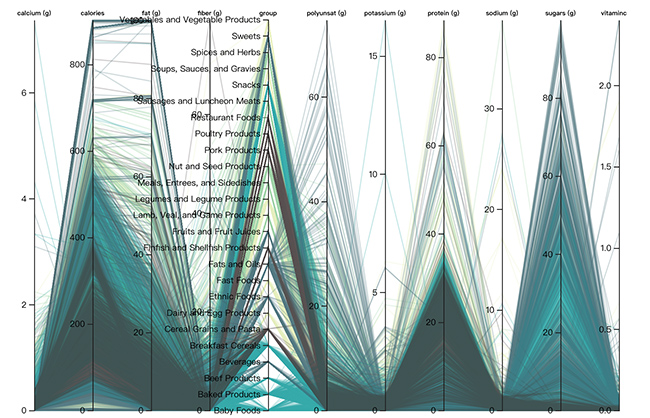
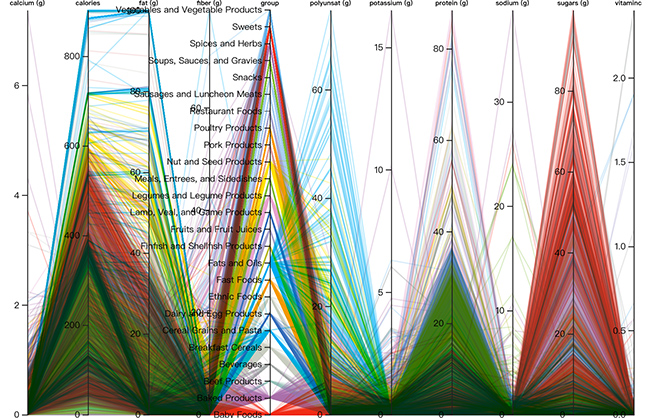
new parcoords color

diff --git a/vizart-path.standalone.js b/vizart-path.standalone.js
@@ -5,7 +5,7 @@ document.write('<script src="http://' + (location.host || 'localhost').split(':'
 	(factory((global.VizArtPath = {})));
 }(this, (function (exports) { 'use strict';
 
-var version = "0.6.0";
+var version = "0.6.1";
 
 var colors = function (specifier) {
   var n = specifier.length / 6 | 0,
@@ -20051,6 +20051,31 @@ var nodeIsDate = nodeUtil$1 && nodeUtil$1.isDate;
  */
 var isDate = nodeIsDate ? baseUnary$1(nodeIsDate) : baseIsDate;
 
+/**
+ * Checks if `value` is classified as an `Array` object.
+ *
+ * @static
+ * @memberOf _
+ * @since 0.1.0
+ * @category Lang
+ * @param {*} value The value to check.
+ * @returns {boolean} Returns `true` if `value` is an array, else `false`.
+ * @example
+ *
+ * _.isArray([1, 2, 3]);
+ * // => true
+ *
+ * _.isArray(document.body.children);
+ * // => false
+ *
+ * _.isArray('abc');
+ * // => false
+ *
+ * _.isArray(_.noop);
+ * // => false
+ */
+var isArray$1 = Array.isArray;
+
 var ascending$3 = function (a, b) {
   return a < b ? -1 : a > b ? 1 : a >= b ? 0 : NaN;
 };
@@ -25131,6 +25156,48 @@ var _functor = function _functor(v) {
     };
 };
 
+/**
+ * Checks if `value` is `null`.
+ *
+ * @static
+ * @memberOf _
+ * @since 0.1.0
+ * @category Lang
+ * @param {*} value The value to check.
+ * @returns {boolean} Returns `true` if `value` is `null`, else `false`.
+ * @example
+ *
+ * _.isNull(null);
+ * // => true
+ *
+ * _.isNull(void 0);
+ * // => false
+ */
+function isNull$1(value) {
+  return value === null;
+}
+
+/**
+ * Checks if `value` is `undefined`.
+ *
+ * @static
+ * @since 0.1.0
+ * @memberOf _
+ * @category Lang
+ * @param {*} value The value to check.
+ * @returns {boolean} Returns `true` if `value` is `undefined`, else `false`.
+ * @example
+ *
+ * _.isUndefined(void 0);
+ * // => true
+ *
+ * _.isUndefined(null);
+ * // => false
+ */
+function isUndefined$1(value) {
+  return value === undefined;
+}
+
 var _this = undefined;
 
 //============================================================================================
@@ -25162,7 +25229,8 @@ var ParCoords = function ParCoords(config) {
         hideAxis: [],
         flipAxes: [],
         animationTime: 1100, // How long it takes to flip the axis when you double click
-        rotateLabels: false
+        rotateLabels: false,
+        evenScale: null
     };
 
     extend$1(__, config);
@@ -25349,7 +25417,13 @@ var ParCoords = function ParCoords(config) {
                     });
                     _extent = temp;
                 }
-                return linear$4().domain(_extent).range(getRange());
+
+                if (!isNull$1(__.evenScale) && !isUndefined$1(__.evenScale) && isArray$1(__.evenScale) && __.evenScale.length === 2) {
+
+                    return linear$4().domain(__.evenScale).range(getRange());
+                } else {
+                    return linear$4().domain(_extent).range(getRange());
+                }
             },
             "string": function string(k) {
                 var counts = {},
@@ -27450,23 +27524,24 @@ var DefaultOptions = {
         colorDimension: null,
         renderingMode: 'queue',
         dimensions: null,
-        autoSortDimensions: 'asc'
+        autoSortDimensions: 'asc',
+        evenScale: null
     }
 };
 
-var ParallelCoordinate = function (_AbstractChart) {
-    inherits(ParallelCoordinate, _AbstractChart);
+var ParallelCoordinates = function (_AbstractChart) {
+    inherits(ParallelCoordinates, _AbstractChart);
 
-    function ParallelCoordinate(canvasId, _userOptions) {
-        classCallCheck$1(this, ParallelCoordinate);
+    function ParallelCoordinates(canvasId, _userOptions) {
+        classCallCheck$1(this, ParallelCoordinates);
 
-        var _this = possibleConstructorReturn(this, (ParallelCoordinate.__proto__ || Object.getPrototypeOf(ParallelCoordinate)).call(this, canvasId, _userOptions));
+        var _this = possibleConstructorReturn(this, (ParallelCoordinates.__proto__ || Object.getPrototypeOf(ParallelCoordinates)).call(this, canvasId, _userOptions));
 
         _this.parcoords;
         return _this;
     }
 
-    createClass$1(ParallelCoordinate, [{
+    createClass$1(ParallelCoordinates, [{
         key: 'render',
         value: function render(_data) {
             this.data(_data);
@@ -27482,9 +27557,9 @@ var ParallelCoordinate = function (_AbstractChart) {
         value: function update() {
             var _this2 = this;
 
-            get(ParallelCoordinate.prototype.__proto__ || Object.getPrototypeOf(ParallelCoordinate.prototype), 'update', this).call(this);
+            get(ParallelCoordinates.prototype.__proto__ || Object.getPrototypeOf(ParallelCoordinates.prototype), 'update', this).call(this);
 
-            this.parcoords = ParCoords()(this._containerId).data(this._data).hideAxis(this._options.plots.hiddenAxis).alpha(this._options.plots.alpha).composite(this._options.plots.composite).margin(this._options.chart.margin).mode(this._options.plots.renderingMode).shadows();
+            this.parcoords = ParCoords()(this._containerId).data(this._data).hideAxis(this._options.plots.hiddenAxis).alpha(this._options.plots.alpha).composite(this._options.plots.composite).margin(this._options.chart.margin).mode(this._options.plots.renderingMode).evenScale(this._options.plots.evenScale).shadows();
 
             this.parcoords.color(function (d) {
                 return _this2._colorScale(d[_this2._options.plots.colorDimension]);
@@ -27649,7 +27724,7 @@ var ParallelCoordinate = function (_AbstractChart) {
         value: function transitionColor(colorOptions) {
             var _this4 = this;
 
-            get(ParallelCoordinate.prototype.__proto__ || Object.getPrototypeOf(ParallelCoordinate.prototype), 'transitionColor', this).call(this, colorOptions);
+            get(ParallelCoordinates.prototype.__proto__ || Object.getPrototypeOf(ParallelCoordinates.prototype), 'transitionColor', this).call(this, colorOptions);
 
             this.parcoords.color(function (d) {
                 return _this4._colorScale(d[_this4._options.plots.colorDimension]);
@@ -27737,7 +27812,7 @@ var ParallelCoordinate = function (_AbstractChart) {
             return mergeBase(DefaultOptions, _userOpt);
         }
     }]);
-    return ParallelCoordinate;
+    return ParallelCoordinates;
 }(AbstractChart);
 
 /**
@@ -28614,31 +28689,6 @@ var isArguments$1 = baseIsArguments$1(function () {
 }()) ? baseIsArguments$1 : function (value) {
   return isObjectLike$1(value) && hasOwnProperty$7$1.call(value, 'callee') && !propertyIsEnumerable$1$1.call(value, 'callee');
 };
-
-/**
- * Checks if `value` is classified as an `Array` object.
- *
- * @static
- * @memberOf _
- * @since 0.1.0
- * @category Lang
- * @param {*} value The value to check.
- * @returns {boolean} Returns `true` if `value` is an array, else `false`.
- * @example
- *
- * _.isArray([1, 2, 3]);
- * // => true
- *
- * _.isArray(document.body.children);
- * // => false
- *
- * _.isArray('abc');
- * // => false
- *
- * _.isArray(_.noop);
- * // => false
- */
-var isArray$1 = Array.isArray;
 
 /**
  * This method returns `false`.
@@ -34221,7 +34271,7 @@ var Sankey = function (_AbstractChart) {
 // export { default as Clustergram } from './Clustergram';
 
 exports.version = version;
-exports.ParallelCoordinate = ParallelCoordinate;
+exports.ParallelCoordinates = ParallelCoordinates;
 exports.BiPartite = BiPartite;
 exports.Chord = Chord;
 exports.StrentchedChord = StretchedChord;

diff --git a/parcoords.html b/parcoords.html
@@ -141,7 +141,7 @@
 
 					<div class="col-md-8 col-sm-8 col-xs-8 mb-sm-50 mb-xs-30">
             <pre class="prettyprint lang-js">
-import { ParallelCoordinate } from 'vizart-path';
+import { ParallelCoordinates } from 'vizart-path';
 import 'vizart-path/dist/vizart-path.css';
 
 const options = {
@@ -154,7 +154,7 @@ const options = {
 };
 
 const _data = ...
-const _chart = new ParallelCoordinate('#chart', options);
+const _chart = new ParallelCoordinates('#chart', options);
 _chart.render(_data);
 						</pre>
 					</div>
@@ -201,7 +201,7 @@ _chart.render(_data);
 	$(document).ready(() => {
 		PR.prettyPrint();
 
-		let _chart = new VizArtPath.ParallelCoordinate('#chart', {
+		let _chart = new VizArtPath.ParallelCoordinates('#chart', {
 			chart: {
 				margin: {
 					left: 20,
@@ -209,6 +209,12 @@ _chart.render(_data);
 					right: 10,
 					bottom: 20
 				},
+			},
+			color: {
+			    type: 'categorical',
+					scheme: ['#3b73b9', '#aa71aa', '#ee3224', '#00aeef', '#f8981d',
+						'#80bb42', '#aacdef', '#cacec2', '#aaa6ce', '#df9e9d', '#6ab2e7',
+						'#ffdd00', '#9ac2b9', '#a7a9ac', '#bbbb42', '#e6a6ce']
 			},
 			plots: {
 				hiddenAxis: ['name'],
